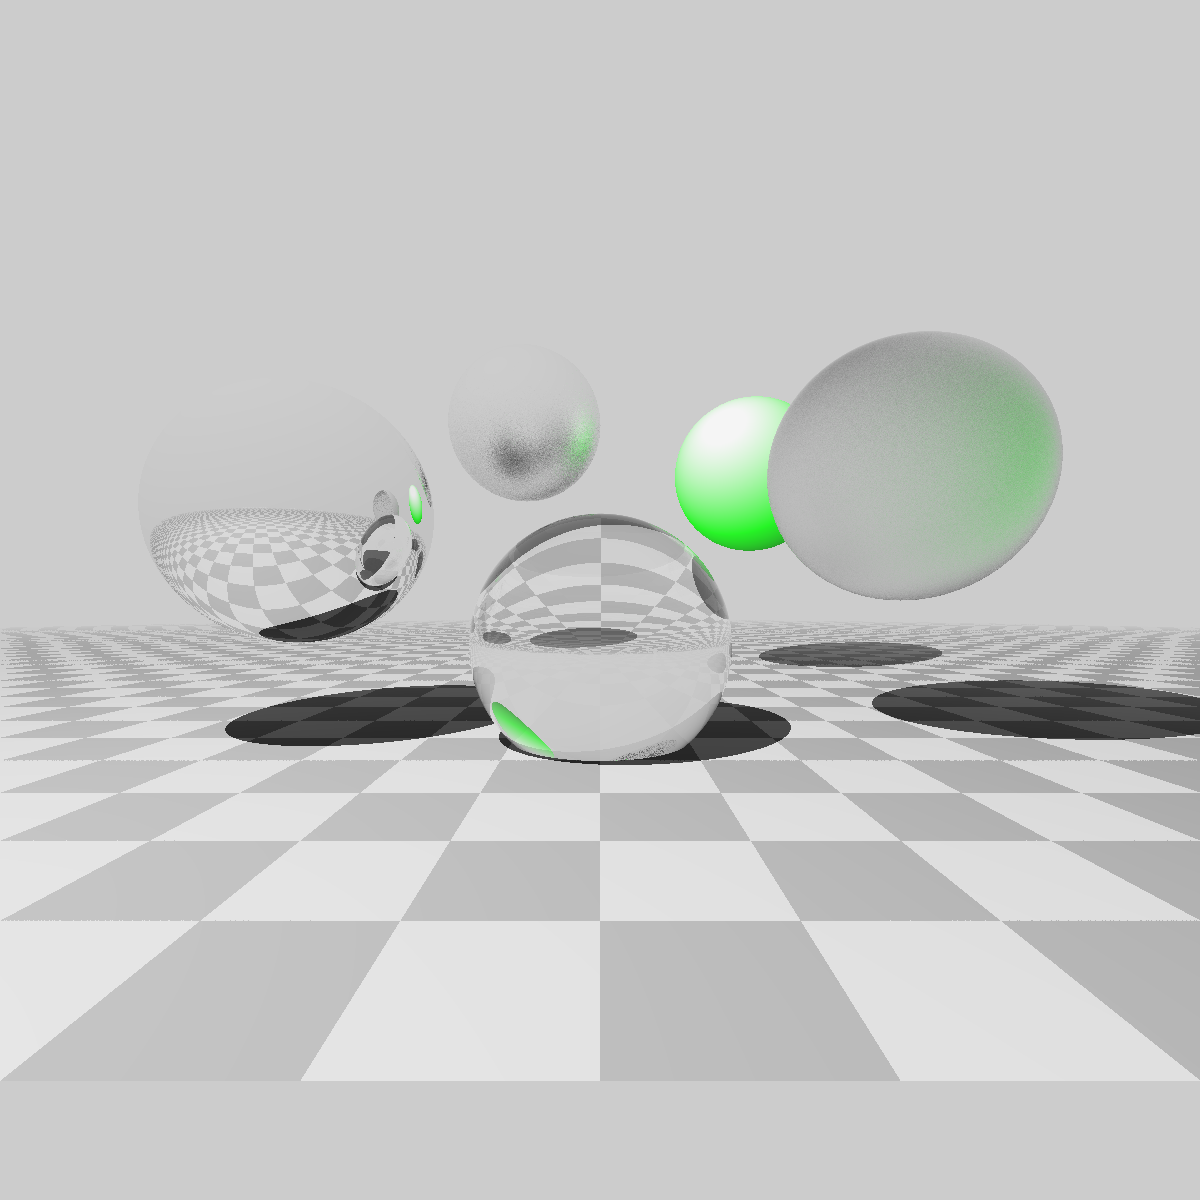
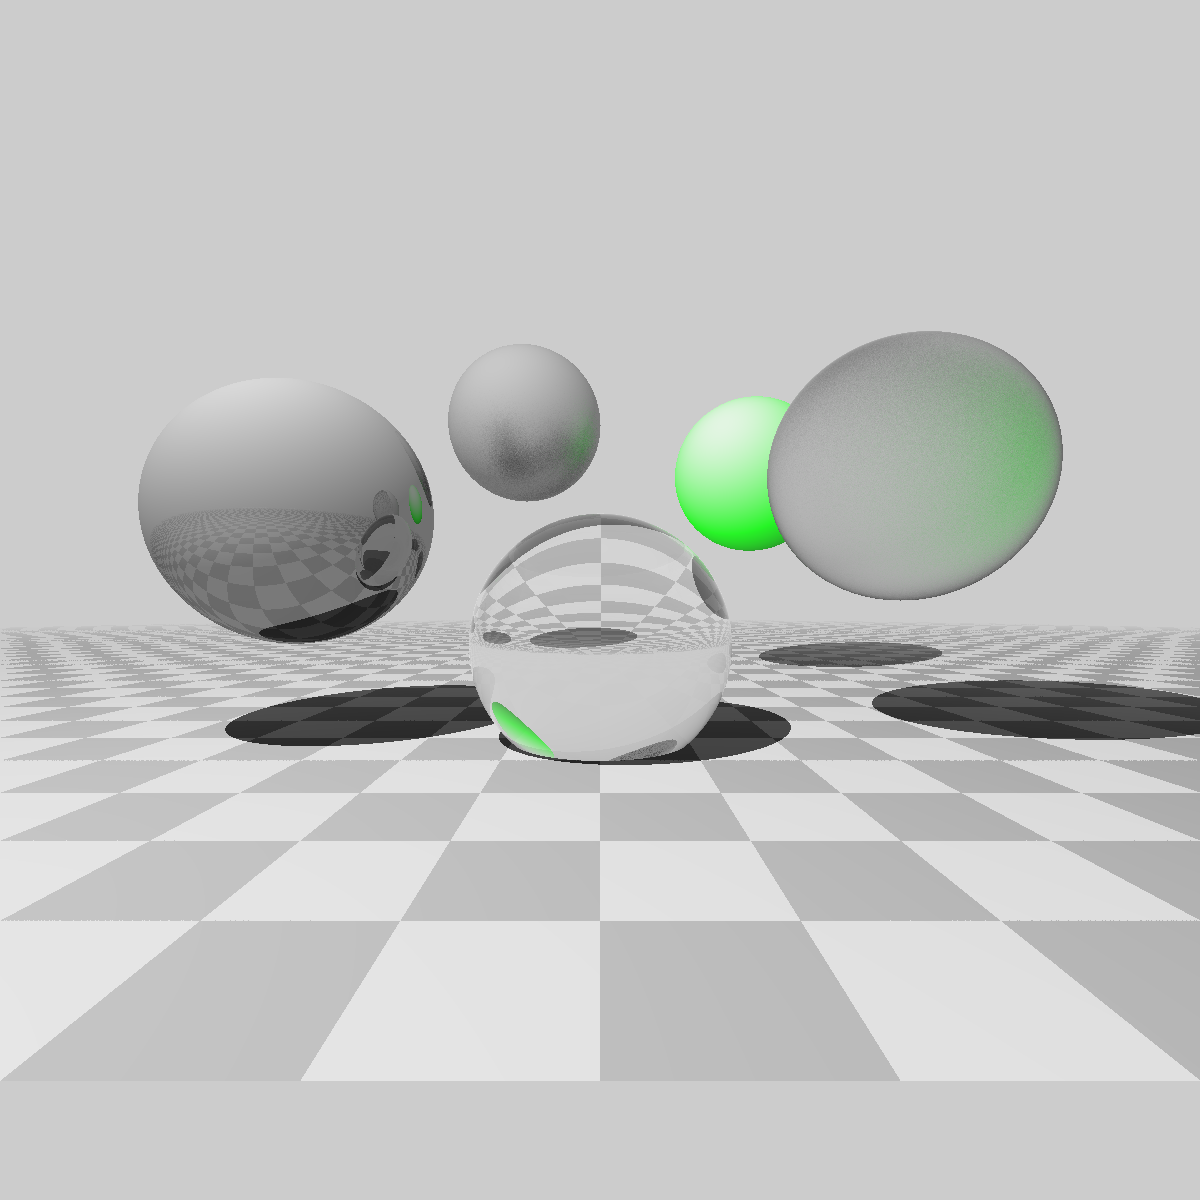
better texture for mirror

diff --git a/src/object/mod.rs b/src/object/mod.rs
@@ -29,14 +29,15 @@ impl Material {
     pub const Mirror: Material = Material {
         surface_color: Color([0.0, 0.0, 0.0]),
         emission_color: Color([0.0, 0.0, 0.0]),
-        reflexivity: 0.95,
-        ior: 1.62,
+        reflexivity: 0.5,
         specular_index: 0.3,
+        ior: 1.0,
         transparency: 0.0,
         roughness: 0.0
     };
     pub const Glass: Material = Material {
         transparency: 0.95,
+        ior: 1.62,
         ..Material::Mirror
     };
     pub const Solid: Material = Material {
@@ -44,7 +45,7 @@ impl Material {
         emission_color: Color([0.0, 0.0, 0.0]),
         reflexivity: 0.0,
         ior: 1.0,
-        specular_index: 0.5,
+        specular_index: 0.3,
         transparency: 0.0,
         roughness: 0.0
     };
@@ -54,6 +55,7 @@ impl Material {
     };
     pub const FrostedMirror: Material = Material {
         roughness: 0.3,
+        specular_index: 0.1,
         ..Material::Mirror
     };
 }

diff --git a/src/tracer/transparency.rs b/src/tracer/transparency.rs
@@ -2,7 +2,7 @@ use super::{ImageBuffer, Rgb, RgbImage, Scene, TraceMode};
 use common::*;
 use object::Material;
 
-const MAX_DEPTH: u32 = 7;
+const MAX_DEPTH: u32 = 5;
 const SCATTER_RATIO: f32 = 10.0;
 const MAX_RETRY_COUNT: u32 = 10;
 const BIAS: f32 = 1e-5;
